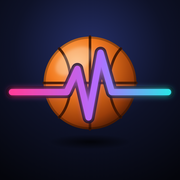
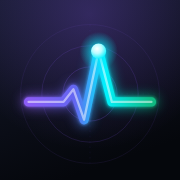
Nová ikona appky: squircle, neónová EKG krivka, radar, vrcholový uzol (any, maskable, iOS)

diff --git a/scripts/make_icons.py b/scripts/make_icons.py
@@ -1,0 +1,113 @@
+"""Ikona appky Team Pulse (Luminous Pulse) ako SVG: squircle, radarové kruhy, neónová EKG krivka
+z fialovej cez indigo do azúrovej a smaragdovej (od bežného stavu po Silný) a žiariaci vrcholový uzol.
+
+Tri varianty z jedného návrhu:
+  app/public/icon.svg     squircle s priehľadnými rohmi – prehliadač, počítač, ikona „any“
+  app/icons/maskable.svg  celý štvorec, obsah v bezpečnej zóne (kruh 80 %) – Android (maskable)
+  app/icons/ios.svg       celý štvorec, rohy zaoblí iOS – apple-touch-icon
+
+Spustenie:  uv run python scripts/make_icons.py && (cd app && npm run icons)
+            (druhý krok z SVG vyrobí PNG: icon-192, icon-512, icon-maskable-512, apple-touch-icon)
+"""
+
+from __future__ import annotations
+
+import math
+from pathlib import Path
+
+OUT = {
+    "any": Path("app/public/icon.svg"),
+    "full": Path("app/icons/maskable.svg"),
+    "ios": Path("app/icons/ios.svg"),
+}
+SCALE = {"any": 1.0, "full": 0.86, "ios": 0.94}  # zmenšenie obsahu, aby ho maska systému neorezala
+
+# EKG krivka v 512 × 512: rovná línia, malý zub, hlboký pokles, vysoký vrchol (Peak Pulse), návrat
+PTS = [(70, 292), (176, 292), (206, 254), (238, 346), (282, 138), (322, 292), (442, 292)]
+PEAK = PTS[4]
+
+
+def squircle(n: float = 5.0, steps: int = 144) -> str:
+    """Superelipsa |x|^n + |y|^n = 1 (tvar ikon na iOS a Androide), vyplní celý štvorec 512."""
+    pts = []
+    for i in range(steps):
+        t = 2 * math.pi * i / steps
+        c, s = math.cos(t), math.sin(t)
+        x = 256 + 256 * math.copysign(abs(c) ** (2 / n), c)
+        y = 256 + 256 * math.copysign(abs(s) ** (2 / n), s)
+        pts.append(f"{x:.1f} {y:.1f}")
+    return "M" + "L".join(pts) + "Z"
+
+
+def stops(*items: tuple[float, str, float]) -> str:
+    return "".join(f'<stop offset="{o}" stop-color="{c}" stop-opacity="{a}"/>' for o, c, a in items)
+
+
+DEFS = f"""<defs>
+  <linearGradient id="bg" x1="0" y1="0" x2="0.35" y2="1">
+    {stops((0, "#14192b", 1), (1, "#05070c", 1))}</linearGradient>
+  <radialGradient id="hi" cx="0.5" cy="0.08" r="0.75">
+    {stops((0, "#8b5cf6", 0.28), (1, "#8b5cf6", 0))}</radialGradient>
+  <linearGradient id="rim" x1="0" y1="0" x2="1" y2="1">
+    {stops((0, "#8b5cf6", 1), (0.5, "#6366f1", 0.35), (1, "#00f2fe", 1))}</linearGradient>
+  <linearGradient id="pulse" gradientUnits="userSpaceOnUse" x1="70" y1="0" x2="442" y2="0">
+    {stops((0, "#8b5cf6", 1), (0.38, "#6366f1", 1), (0.62, "#00f2fe", 1), (1, "#10b981", 1))}</linearGradient>
+  <radialGradient id="node" cx=".4" cy=".35" r=".7">
+    {stops((0, "#ffffff", 1), (0.45, "#b9fbff", 1), (1, "#00f2fe", 1))}</radialGradient>
+  <radialGradient id="halo">{stops((0, "#00f2fe", 0.75), (1, "#00f2fe", 0))}</radialGradient>
+  <filter id="wide" x="-20%" y="-40%" width="140%" height="180%"><feGaussianBlur stdDeviation="16"/></filter>
+  <filter id="near" x="-20%" y="-40%" width="140%" height="180%"><feGaussianBlur stdDeviation="5"/></filter>
+</defs>"""
+
+
+def background(kind: str) -> str:
+    if kind != "any":
+        return (
+            '<rect width="512" height="512" fill="url(#bg)"/><rect width="512" height="512" fill="url(#hi)"/>'
+        )
+    path = squircle()
+    rim = 'transform="translate(256 256) scale(0.988) translate(-256 -256)"'  # okraj celý vnútri tvaru
+    return (
+        f'<path d="{path}" fill="url(#bg)"/><path d="{path}" fill="url(#hi)"/>'
+        f'<path d="{path}" {rim} fill="none" stroke="url(#rim)" stroke-width="5" stroke-opacity=".75"/>'
+    )
+
+
+def artwork() -> str:
+    pts = " ".join(f"{x},{y}" for x, y in PTS)
+    px, py = PEAK
+    line = f'<polyline points="{pts}" stroke="url(#pulse)"'
+    return f"""<g fill="none" stroke="#8b5cf6" stroke-width="3">
+    <circle cx="256" cy="268" r="82" stroke-opacity=".22"/>
+    <circle cx="256" cy="268" r="146" stroke-opacity=".15"/>
+    <circle cx="256" cy="268" r="210" stroke-opacity=".09"/>
+    <path d="M256 58v420M46 268h420" stroke-opacity=".07" stroke-dasharray="6 10"/>
+  </g>
+  <g fill="none" stroke-linecap="round" stroke-linejoin="round">
+    {line} stroke-width="44" opacity=".55" filter="url(#wide)"/>
+    {line} stroke-width="30" opacity=".9" filter="url(#near)"/>
+    {line} stroke-width="28"/>
+    <polyline points="{pts}" stroke="#ffffff" stroke-width="7" stroke-opacity=".5"/>
+  </g>
+  <circle cx="{px}" cy="{py}" r="58" fill="url(#halo)"/>
+  <circle cx="{px}" cy="{py}" r="23" fill="url(#node)"/>"""
+
+
+def svg(kind: str) -> str:
+    s = SCALE[kind]
+    t = f' transform="translate(256 256) scale({s}) translate(-256 -256)"' if s != 1.0 else ""
+    return (
+        '<svg xmlns="http://www.w3.org/2000/svg" viewBox="0 0 512 512">\n<title>Team Pulse</title>\n'
+        f"{DEFS}\n{background(kind)}\n<g{t}>\n  {artwork()}\n</g>\n</svg>\n"
+    )
+
+
+def main() -> None:
+    for kind, path in OUT.items():
+        path.parent.mkdir(parents=True, exist_ok=True)
+        path.write_text(svg(kind), encoding="utf-8")
+        print(f"{path}  ({kind})")
+
+
+if __name__ == "__main__":
+    main()

diff --git a/docs/journal.md b/docs/journal.md
@@ -6,6 +6,14 @@ Denník vznikol 13. 10. 2026, staršie záznamy sú doplnené spätne z commitov
 
 ## 20. 10. 2026
 
+- **Nová ikona appky** (Petrovo zadanie 13:10): tmavý squircle (superelipsa, #14192B → #05070C) s jemným
+  okrajom z fialovej do azúrovej, radarové kruhy, neónová EKG krivka z fialovej (#8B5CF6) cez indigo do azúrovej
+  a smaragdovej (#00F2FE / #10B981) s dvojitou žiarou a žiariaci vrcholový uzol („Peak Pulse“). Varianty: `icon.svg`
+  a PNG 192 / 512 so squircle a priehľadnými rohmi, maskable 512 pre Android (celý štvorec, obsah v bezpečnej zóne),
+  apple-touch-icon 180 pre iOS (celý štvorec, rohy zaoblí iOS). Zdroj `scripts/make_icons.py` (SVG), PNG z neho
+  `npm run icons` (Chromium z Playwrightu). Čitateľná aj pri 32 – 48 px. Zmenšenie PNG na 256 farieb zamietnuté
+  (pruhy v žiare), ostávajú bezstratové. Na iPhone sa nová ikona ukáže až po odobratí a novom pridaní appky
+  na plochu, Android si ju obnoví sám.
 - **README aktualizovaný** na stav k 20. 10.: NBA aj NHL v appke, nový vzhľad a obrazovky (pás dní, karty,
   prehľad dňa, detail NHL, Teamy v 4 úrovniach, Model), tabuľka športov a brán (NBA G2, NHL G2 predbežne
   splnené, F1 model B mimo appky, extraliga čaká na SZĽH), NHL model, testy (pytest 410, Playwright 147 + 28),
@@ -321,5 +329,5 @@ Denník vznikol 13. 10. 2026, staršie záznamy sú doplnené spätne z commitov
 - G2-NHL: 13. – 26. 10. 2026, vyhodnotenie 27. 10. ráno po NHL úlohe (z Macu, potrebuje API NHL):
   `uv run python -m team_pulse.gate_g2 nhl`.
 - Nápady: Peter vyberie z `docs/napady.md`, vybrané pôjdu na board.
-- Redizajn: po deployi kroku 2 `bash scripts/board_redizajn2.sh`, kontrola na iPhone (švih kariet, pás dní).
-  Ďalej etapa 3 (detail NBA), Moje teamy, Bilancia, Sledovať pre NBA, nová ikona, etapa 5 (testy, iPhone).
+- Redizajn: `bash scripts/board_redizajn2.sh`, kontrola na iPhone (švih kariet, pás dní, nová ikona po novom
+  pridaní na plochu). Ďalej etapa 3 (detail NBA), Moje teamy, Bilancia, Sledovať pre NBA, etapa 5 (testy, iPhone).

diff --git a/README.md b/README.md
@@ -42,7 +42,8 @@ s akou šancou vyjdú všetky naraz. Nie je spojený s NBA, NHL ani s ich klubmi
 farby (Silný smaragd, Stabilný indigo, Oslabený jantár, Kritický rubín), tip je fialovo-modrá žiara,
 nie stávková žltá. Odznak teamu je kruh vo farbách dresu so skratkou a prstencom: pri NBA Pulse, pri NHL
 šanca na výhru. Písmo Space Grotesk a Inter, číslice rovnako široké. Na počítači sú Zápasy prehľad
-v dvoch stĺpcoch. Appka má tmavú aj svetlú tému podľa nastavenia systému.
+v dvoch stĺpcoch. Appka má tmavú aj svetlú tému podľa nastavenia systému. Ikona: tmavý squircle s radarovými
+kruhmi a neónovou EKG krivkou z fialovej do smaragdovej so žiariacim vrcholom (verzie pre Android, iOS aj počítač).
 
 **Pulse** = 50 + (Elo dnes − 1505) / 6, teda 50 znamená priemerný team. Hranice úrovní sú 70 / 50 / 30.
 Team, ktorý je dnes aspoň o 60 Elo pod svojím normálom (napr. mu chýba hviezda), padne o úroveň nižšie.
@@ -229,7 +230,8 @@ sú vymyslené, čísla na screenshotoch sú testovacie.
 - [x] NHL v appke ako beta · [ ] G2-NHL 13. – 26. 10. 2026 (vyhodnotenie 27. 10.)
 - [ ] F1 – model B naostro mimo appky do 6. 12. 2026 · [ ] Tipos extraliga – čaká na súhlas SZĽH
 - [x] redizajn: vzhľad, detail NHL, pás dní, karty, prehľad dňa, Tipy, Teamy, Model
-- [ ] redizajn: detail NBA, Moje teamy, Bilancia tipov naostro, Sledovať pre NBA, nová ikona
+- [x] nová ikona appky (squircle, neónová EKG krivka, radar, vrcholový uzol; `scripts/make_icons.py`)
+- [ ] redizajn: detail NBA, Moje teamy, Bilancia tipov naostro, Sledovať pre NBA
 - [ ] neskôr: Supabase (história predpovedí)
 
 Čo sa kedy urobilo a prečo: [docs/journal.md](docs/journal.md). Úlohy: boardy „Team Pulse“ a „Team Pulse – športy“.
